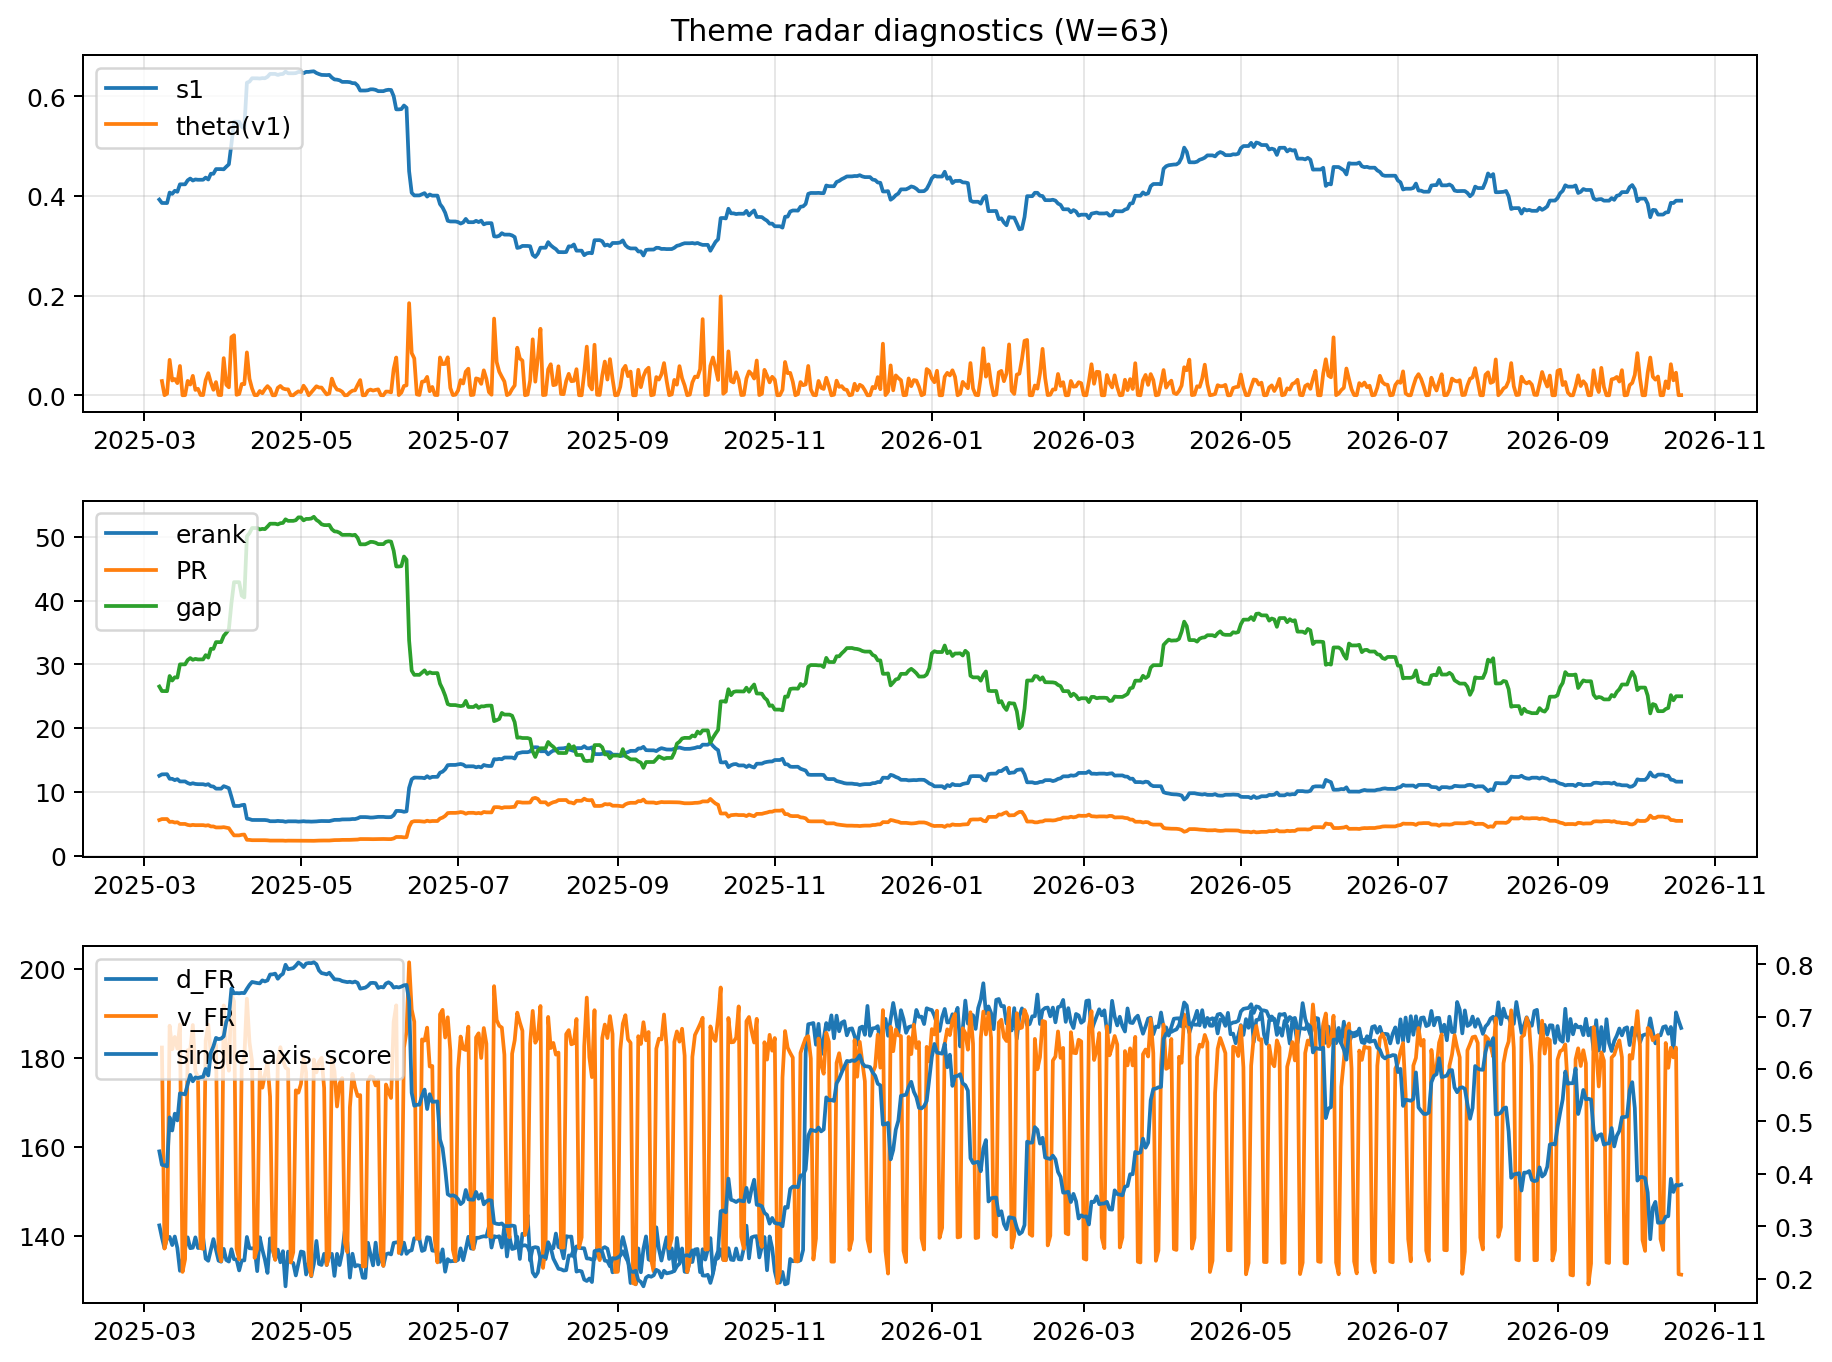
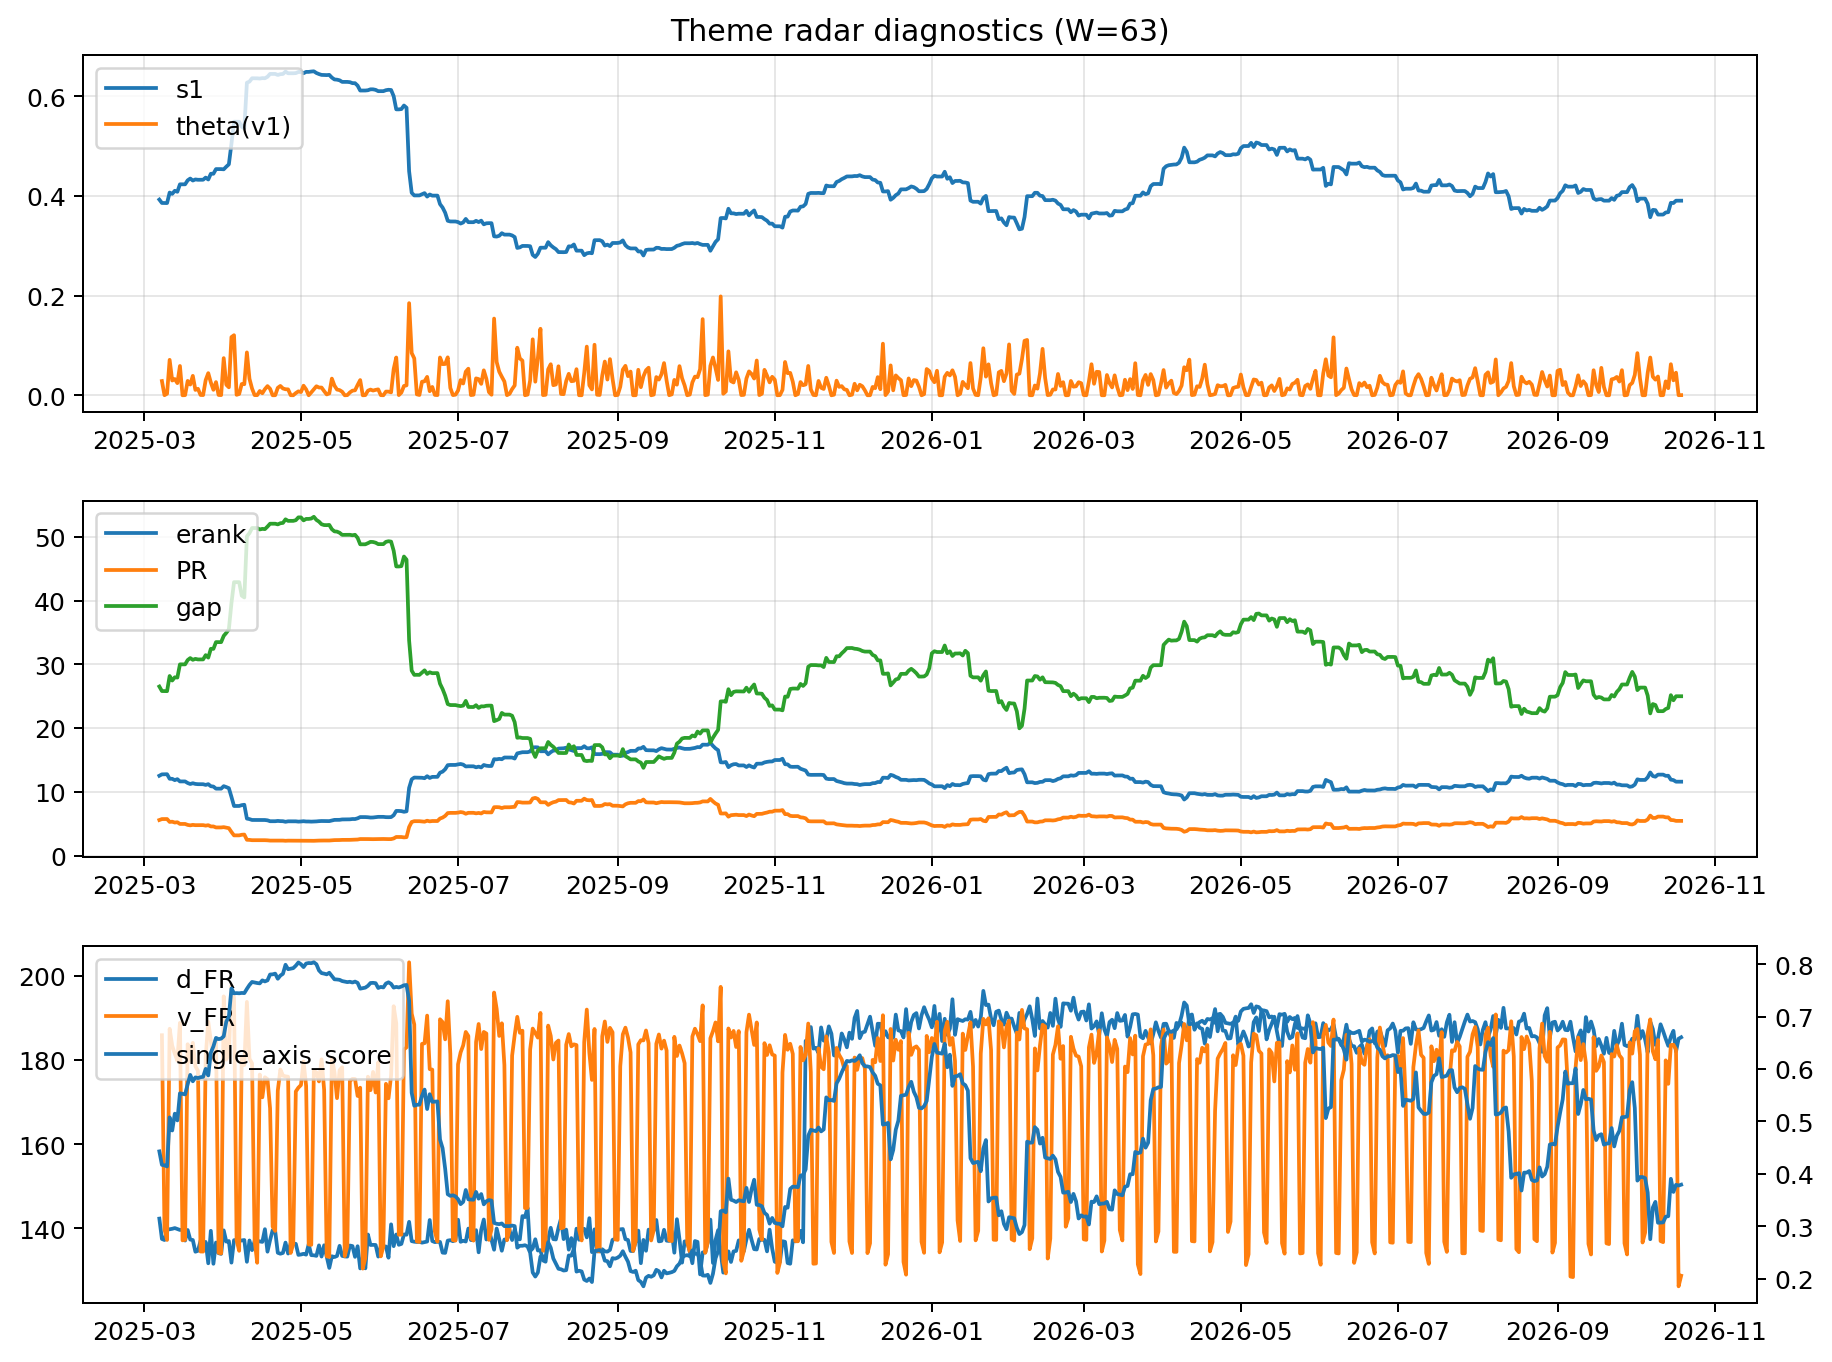
log: 2026-10-19 | sha256:827ee3f2721fdb080e709fa6f5c39c7a6418b24c6f738f1edec76caef6c179c2

diff --git a/logs/2026-10-19.md b/logs/2026-10-19.md
@@ -3,43 +3,43 @@
 ![diagnostic W63](../assets/diagnostic/2026-10-19_W63.png)
 
 ## Leaders (v1) — W=63
-- **Nuclear_Uranium** (0.0787723999614016)
-- Semis (0.0620606098327743)
-- Quantum (0.0564416412789835)
+- **Nuclear_Uranium** (0.0787723942348804)
+- Semis (0.0620605978160362)
+- Quantum (0.0564416378854641)
 
 ## Challengers — W=63
-**v2:** Semis (0.1038871003353901), Rates (0.0915559747765208), Genomics_Bio (0.0744854028696559)
-**v3:** Software_Cloud (0.1069115458186538), Cyber (0.0733746335577697), Rates (0.057009149377271)
+**v2:** Semis (0.1038871109506962), Rates (0.0915560802868627), Genomics_Bio (0.0744852757203894)
+**v3:** Software_Cloud (0.106911547350909), Cyber (0.0733746458882018), Rates (0.0570090618379818)
 
 ## Migration (20D slope) — W=63
 **Top risers:**
-- axis_Crypto: 0.0005850409147818
-- axis_MegaCap_AI: 0.0005617104584767
-- axis_Metals: 0.0003873096616266
-- axis_DataCenter_Infra: 0.0002245568811916
-- axis_Sector_ConsStap: 0.000191613040814
-- axis_Vol: 0.0001863739915591
-- axis_Cyber: 0.0001689444755957
-- axis_Critical_Minerals: 0.0001639875248913
-- axis_Nuclear_Uranium: 0.0001332837008913
-- axis_Grid_Power: 0.0001272336144745
+- axis_Crypto: 0.0005850408989701
+- axis_MegaCap_AI: 0.0005617099958244
+- axis_Metals: 0.0003873100381963
+- axis_DataCenter_Infra: 0.0002245568336412
+- axis_Sector_ConsStap: 0.0001916131033246
+- axis_Vol: 0.0001863738932505
+- axis_Cyber: 0.0001689442277381
+- axis_Critical_Minerals: 0.0001639877329239
+- axis_Nuclear_Uranium: 0.0001332836208509
+- axis_Grid_Power: 0.0001272335803422
 
 **Top fallers:**
-- axis_Sector_Materials: -8.409488350353605e-05
-- axis_Sector_Fin: -8.874351432773333e-05
-- axis_Space: -0.0001073579426723
-- axis_Quantum: -0.000142733962173
-- axis_Drones_Autonomy: -0.0001525025890855
-- axis_Defense: -0.0002594483424132
-- axis_Credit: -0.0002798938144806
-- axis_Commodities: -0.0003559842702167
-- axis_Genomics_Bio: -0.0004087176784418
-- axis_Rates: -0.0009392201943687
+- axis_Sector_Materials: -8.409478114789227e-05
+- axis_Sector_Fin: -8.874362650877055e-05
+- axis_Space: -0.0001073579288255
+- axis_Quantum: -0.0001427338990978
+- axis_Drones_Autonomy: -0.0001525025655062
+- axis_Defense: -0.000259448341816
+- axis_Credit: -0.0002798927806936
+- axis_Commodities: -0.0003559844856711
+- axis_Genomics_Bio: -0.0004087174354514
+- axis_Rates: -0.0009392197075991
 
 ## Risk line (W=63)
-- s1: 0.3903691459965451
-- theta_v1: 0.0003552405900996
-- v_FR: 131.28399490634015
+- s1: 0.3903691398956072
+- theta_v1: 0.0003552406226024
+- v_FR: 128.79472140353084
 - single_axis_score: 0.3793918918918919
 
 ## Interpretation
@@ -51,4 +51,4 @@
 - Percentiles (W=63 history): vfr_pct=0.01, theta_pct=0.14, s1_pct=0.38, score_pct=0.32.
 
 ---
[2 lines of base64/hex data omitted]
